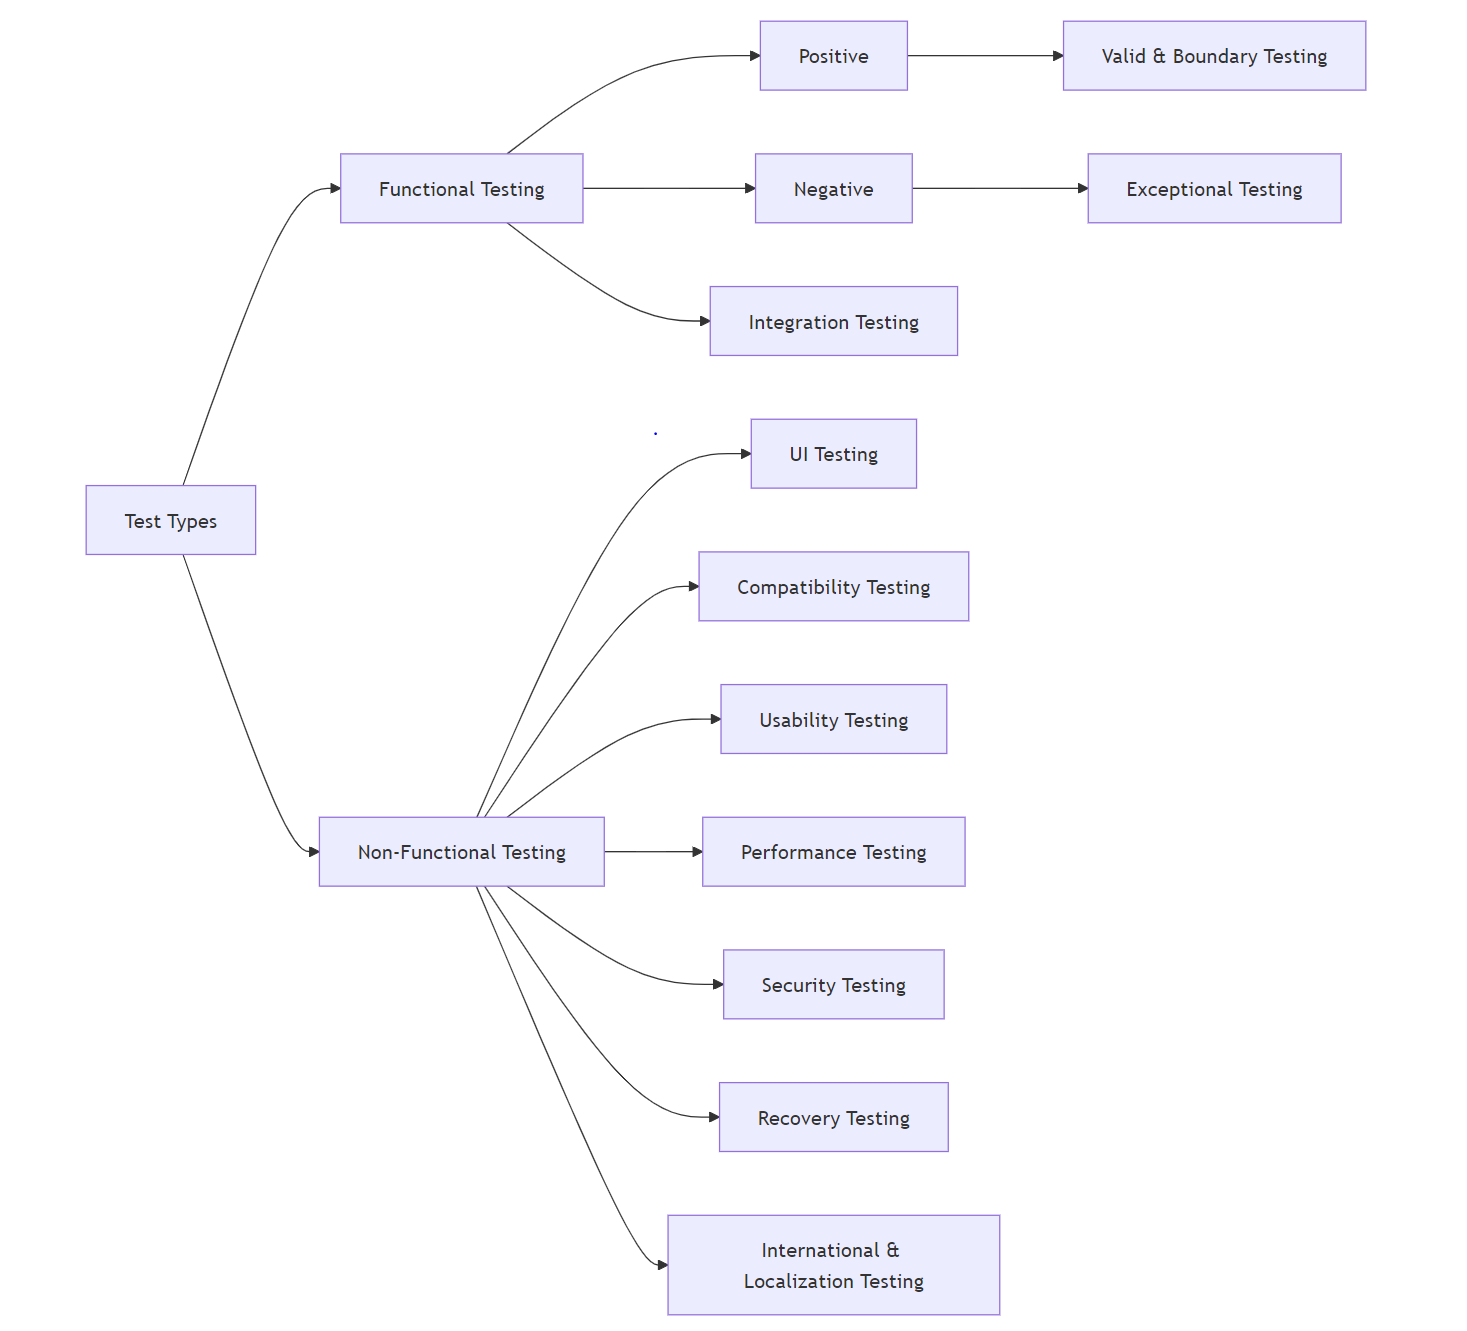
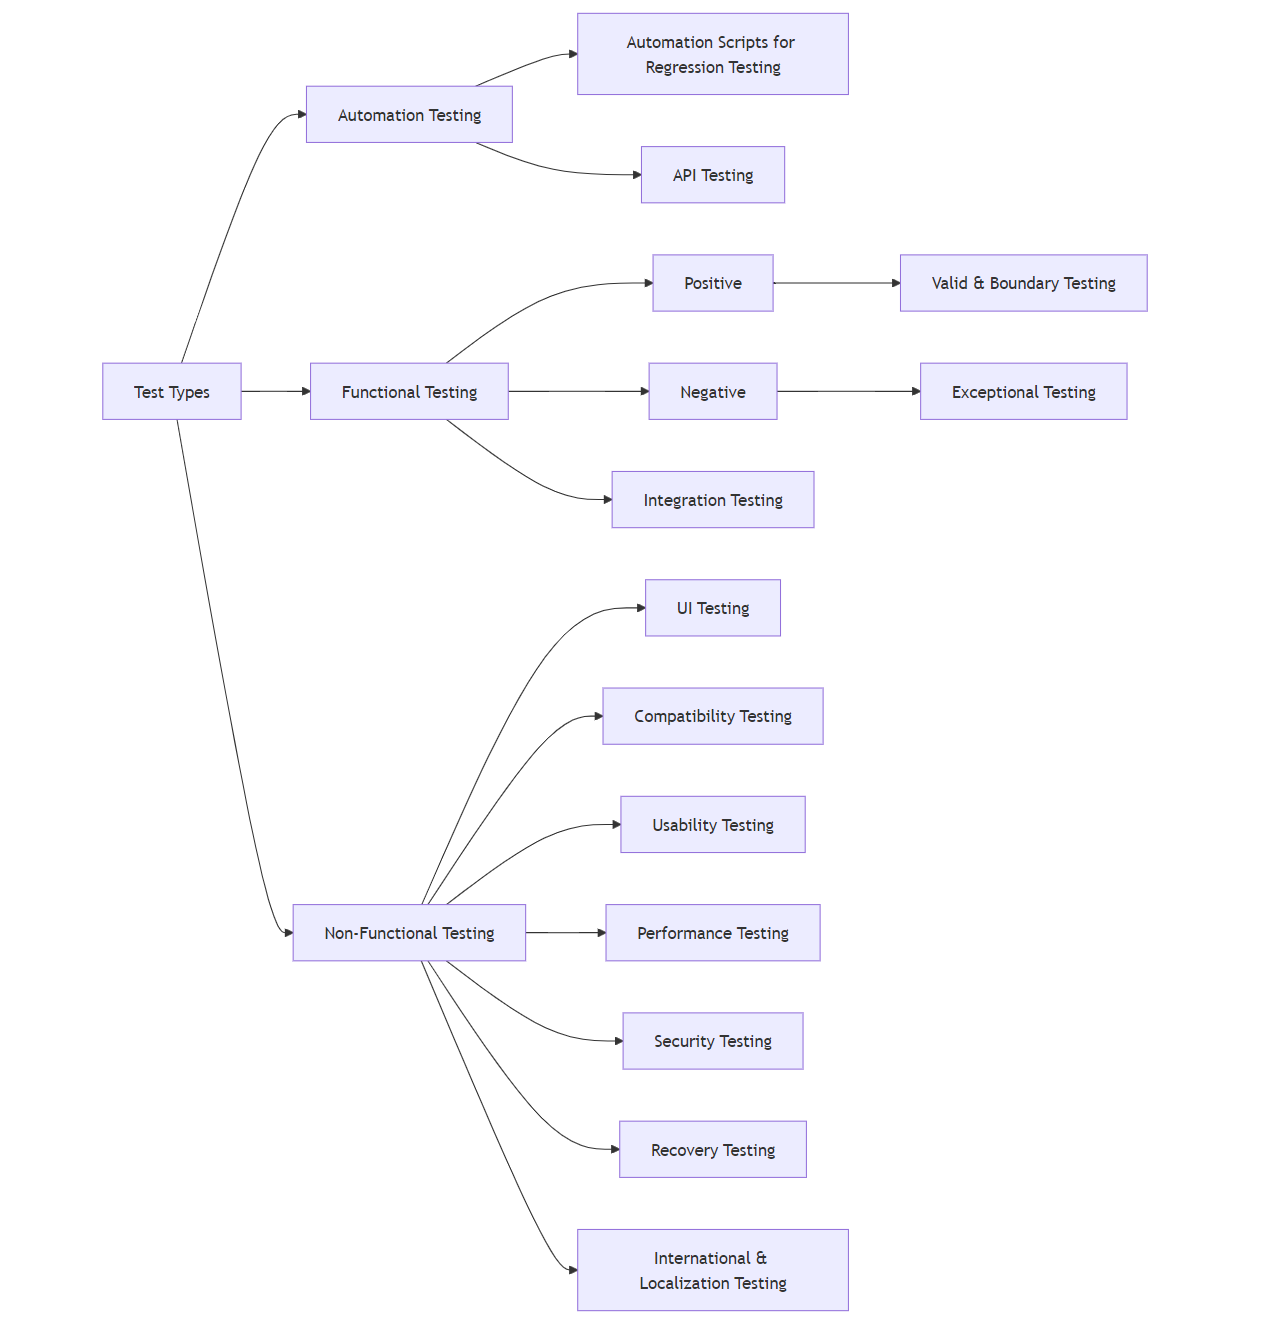
add testing types

diff --git a/src/pages/Project/Project.js b/src/pages/Project/Project.js
@@ -6,6 +6,7 @@ import mobile from "../../assets/uptrillion_mobile.jpg";
 import cloud from "../../assets/uptrillion_cloud.png";
 import React, {useState} from "react";
 import {Link} from "react-router-dom";
+import testTypes from "../../assets/testTypesDiagram.PNG";
 
 const FadeInSection = ({children}: { children: React.ReactNode }) => {
     return (
@@ -185,6 +186,17 @@ export default function Project() {
                             </p>
                         </motion.div>
                     </Link>
+                </div>
+            </section>
+
+            {/* Project Details */}
+            <section className="content-section">
+                <FadeInSection>
+                    <h2 className="project-section-title center-title">🎯 Types of Testing Applied at Uptrillion</h2>
+                </FadeInSection>
+
+                <div className="project-image-container-testTpes">
+                        <img src={testTypes} alt="Project screenshot 2" className="project-image-testTypes"/>
                 </div>
             </section>
         </div>

diff --git a/src/pages/AboutMe/AboutMe.css b/src/pages/AboutMe/AboutMe.css
@@ -30,7 +30,7 @@
     position: absolute;
     top: 30%;
     left: 36%;
-    color: #407EC9;
+    color: #1C3775;
     /*transform: translate(-50%, -50%);*/
 }
 
@@ -61,22 +61,22 @@
     /*color: transparent;*/
     /*transition: transform 0.3s ease, color 0.3s ease;*/
     transform: scale(1.1);
-    color: #407EC9;
+    color: #1C3775;
 }
 
 .section-text {
     font-size: 1.2rem;
-    color: #407EC9;
+    color: #1C3775;
     transition: color 0.3s ease;
 }
 
-.section-text:hover {
-    color: #1C3775;
-    transform: scale(1.2);
-    box-shadow: 0px 0px 30px rgba(28, 55, 117, 0.5);
-    text-shadow: 0 0 10px rgba(28, 55, 117, 0.8);
+/*.section-text:hover {*/
+/*    color: #1C3775;*/
+/*    transform: scale(1.2);*/
+/*    box-shadow: 0px 0px 30px rgba(28, 55, 117, 0.5);*/
+/*    text-shadow: 0 0 10px rgba(28, 55, 117, 0.8);*/
 
-}
+/*}*/
 
 .fade-section {
     margin-bottom: 50px;

diff --git a/src/pages/Project/Project.css b/src/pages/Project/Project.css
@@ -103,7 +103,7 @@
     /*background: linear-gradient(135deg, #1D3557, #407EC9); !* Gradient Background *!*/
 }
 
-/* 图片部分 */
+
 .project-image-container {
     display: flex;
     justify-content: space-between;
@@ -147,4 +147,18 @@
 /* 滚动渐入动画 */
 .fade-section {
     margin-bottom: 50px;
+}
+
+.project-image-container-testTpes {
+    display: flex;
+    justify-content: center; /* Horizontally center the image */
+    align-items: center;     /* Vertically center the image (if necessary) */
+    width: 100%;
+    padding: 20px 0;
+}
+
+.project-image-testTypes {
+    max-width: 100%; /* Ensure the image is responsive */
+    width: 820px;
+    height: auto;    /* Maintain aspect ratio */
 }
